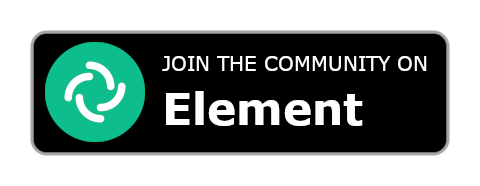
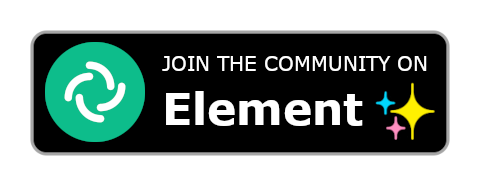
improved readme, added Element badge.

Changed region(s): [[0.7812, 0.457, 0.9062, 0.7527]]

diff --git a/README.md b/README.md
@@ -14,11 +14,7 @@
 <a href='https://play.google.com/store/apps/details?id=software.mdev.bookstracker'><img height=75 alt='Get it on Google Play' src='https://play.google.com/intl/en_us/badges/images/generic/en_badge_web_generic.png'/></a>
 <a href='https://github.com/mateusz-bak/openreads-android/releases/latest'><img height=75 alt='Get it on Github' src='https://raw.githubusercontent.com/mateusz-bak/openreads-android/master/doc/github/get-it-on-github.png'/></a>
 <br/>
-:sparkles: :sparkles: :sparkles: :sparkles: :sparkles: :sparkles: :sparkles: :sparkles:
-<br/>
 <a href='https://matrix.to/#/#openreads:matrix.org'><img height=75 alt='Join the community on Element' src='https://raw.githubusercontent.com/mateusz-bak/openreads-android/master/doc/github/join_element.png'/></a>
-<br/>
-:sparkles: :sparkles: :sparkles: :sparkles: :sparkles: :sparkles: :sparkles: :sparkles:
 
 <br/><br/>
 ### Openreads is a privacy oriented and open source Android app written in Kotlin for keeping tracks of your books.  
